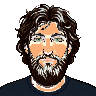
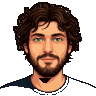
fix(ch4,ch5): colores — derivar de píxeles exactos de ch3 (no forge)
Rafael: "ch4 y ch5 están mal los colores". Las generaciones forge metían parches
crema/lavanda alrededor de ojos + highlights especulares (piel blotchy) que ch3 no
tiene. Solución que garantiza el match: derivar de ch3.

- ch4 = copia exacta de ch3 + barba extendida (PIL) → colores idénticos a ch3.
- ch5 = base ch4 + pelo dilatado 2px (color ch3) para "levemente más grande", misma barba.

Pixel-sample confirma ch4/ch5 == ch3 (piel #FBB782, ojos #100C09, pelo #0E0100).
Render app limpio. ch6 sin tocar (se revisa luego). Versiones forge en old/.

diff --git a/public/assets/old/CHANGELOG.md b/public/assets/old/CHANGELOG.md
@@ -582,3 +582,11 @@ Aplica colectivamente a los 4 assets parallax originales de ch4 (Plan 04-04 W2).
 - **Razón del cambio:** Rafael ("pésimo") pidió rehacer ch4/ch5/ch6 como progresión coherente: todos parten de ch3, manteniendo color de piel/ojos/pelo. ch4=ch3+barba levemente más grande; ch5=base ch4, misma barba, pelo levemente más largo; ch6=versión de ch2 envejecido SIN canas, con barba, cara más madura sin arrugas, pelo corto castaño.
 - **Qué se hará:** GENERAR con forge_sprite (banana-2, bg lava) secuencialmente, cada uno referenciando al previo (ch4→ref ch3; ch5→ref ch4; ch6→ref ch3). Colores hard-target ch3: piel #FBB782, pelo/barba #1A0805/#0E0100 (cero gris), ojos sage #8A9E86, navy #141C2A. Validación checkerboard + app CDP + pixel-sample antes de presentar.
 - **Commit hash del cambio:** `8923e7a`
+
+## ch4/ch5-bust.png — fix COLOR: volver a derivar de ch3 (2026-06-01)
+
+- **Versiones guardadas:** `old/ch4-bust-2026-06-01-iter8-forge-colorbad.png`, `old/ch5-bust-2026-06-01-iter22-forge-colorbad.png` (forge, commit `5a96bcb`)
+- **Razón del cambio:** Rafael: "ch4 y ch5 están mal los colores". Las versiones forge (banana-2) metían parches crema/lavanda alrededor de ojos + highlights especulares en mejillas/frente que ch3 NO tiene → piel manchada/blotchy. El hex dominante era correcto pero los parches especulares rompían el match con la piel lisa de ch3.
+- **Qué se hizo (garantiza colores):** dejar de pelear con forge. ch4 = COPIA exacta de ch3-bust.png + barba extendida (PIL, color ch3) → piel/ojos/pelo idénticos a ch3 (#FBB782, #100C09, #0E0100). ch5 = base ch4 (colores ch3) + pelo dilatado 2px hacia afuera/arriba (color ch3) para "levemente más grande", misma barba que ch4. Verificado: pixel-sample ch4/ch5 == ch3 exacto; render app limpio sin parches.
+- **ch6:** sin tocar (Rafael: "ch6 lo vemos luego").
+- **Commit hash del cambio:** `54c8f8b`
